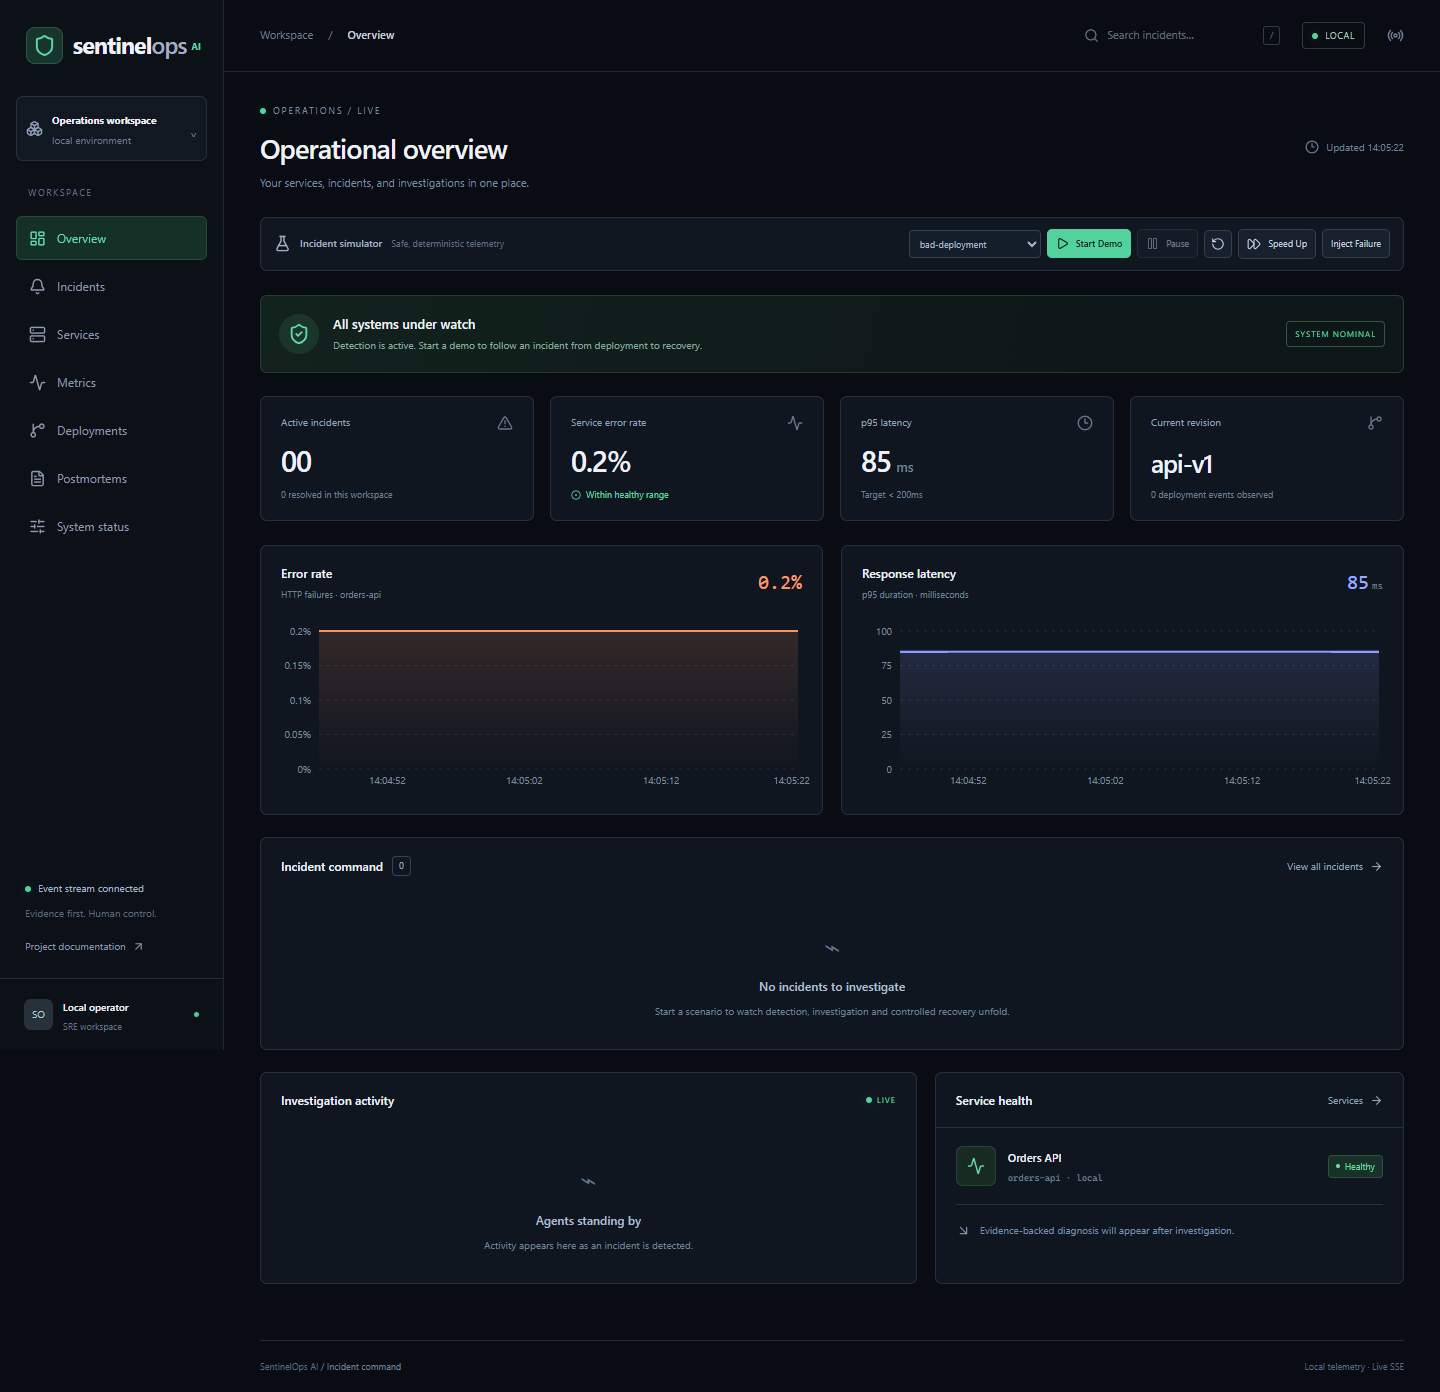
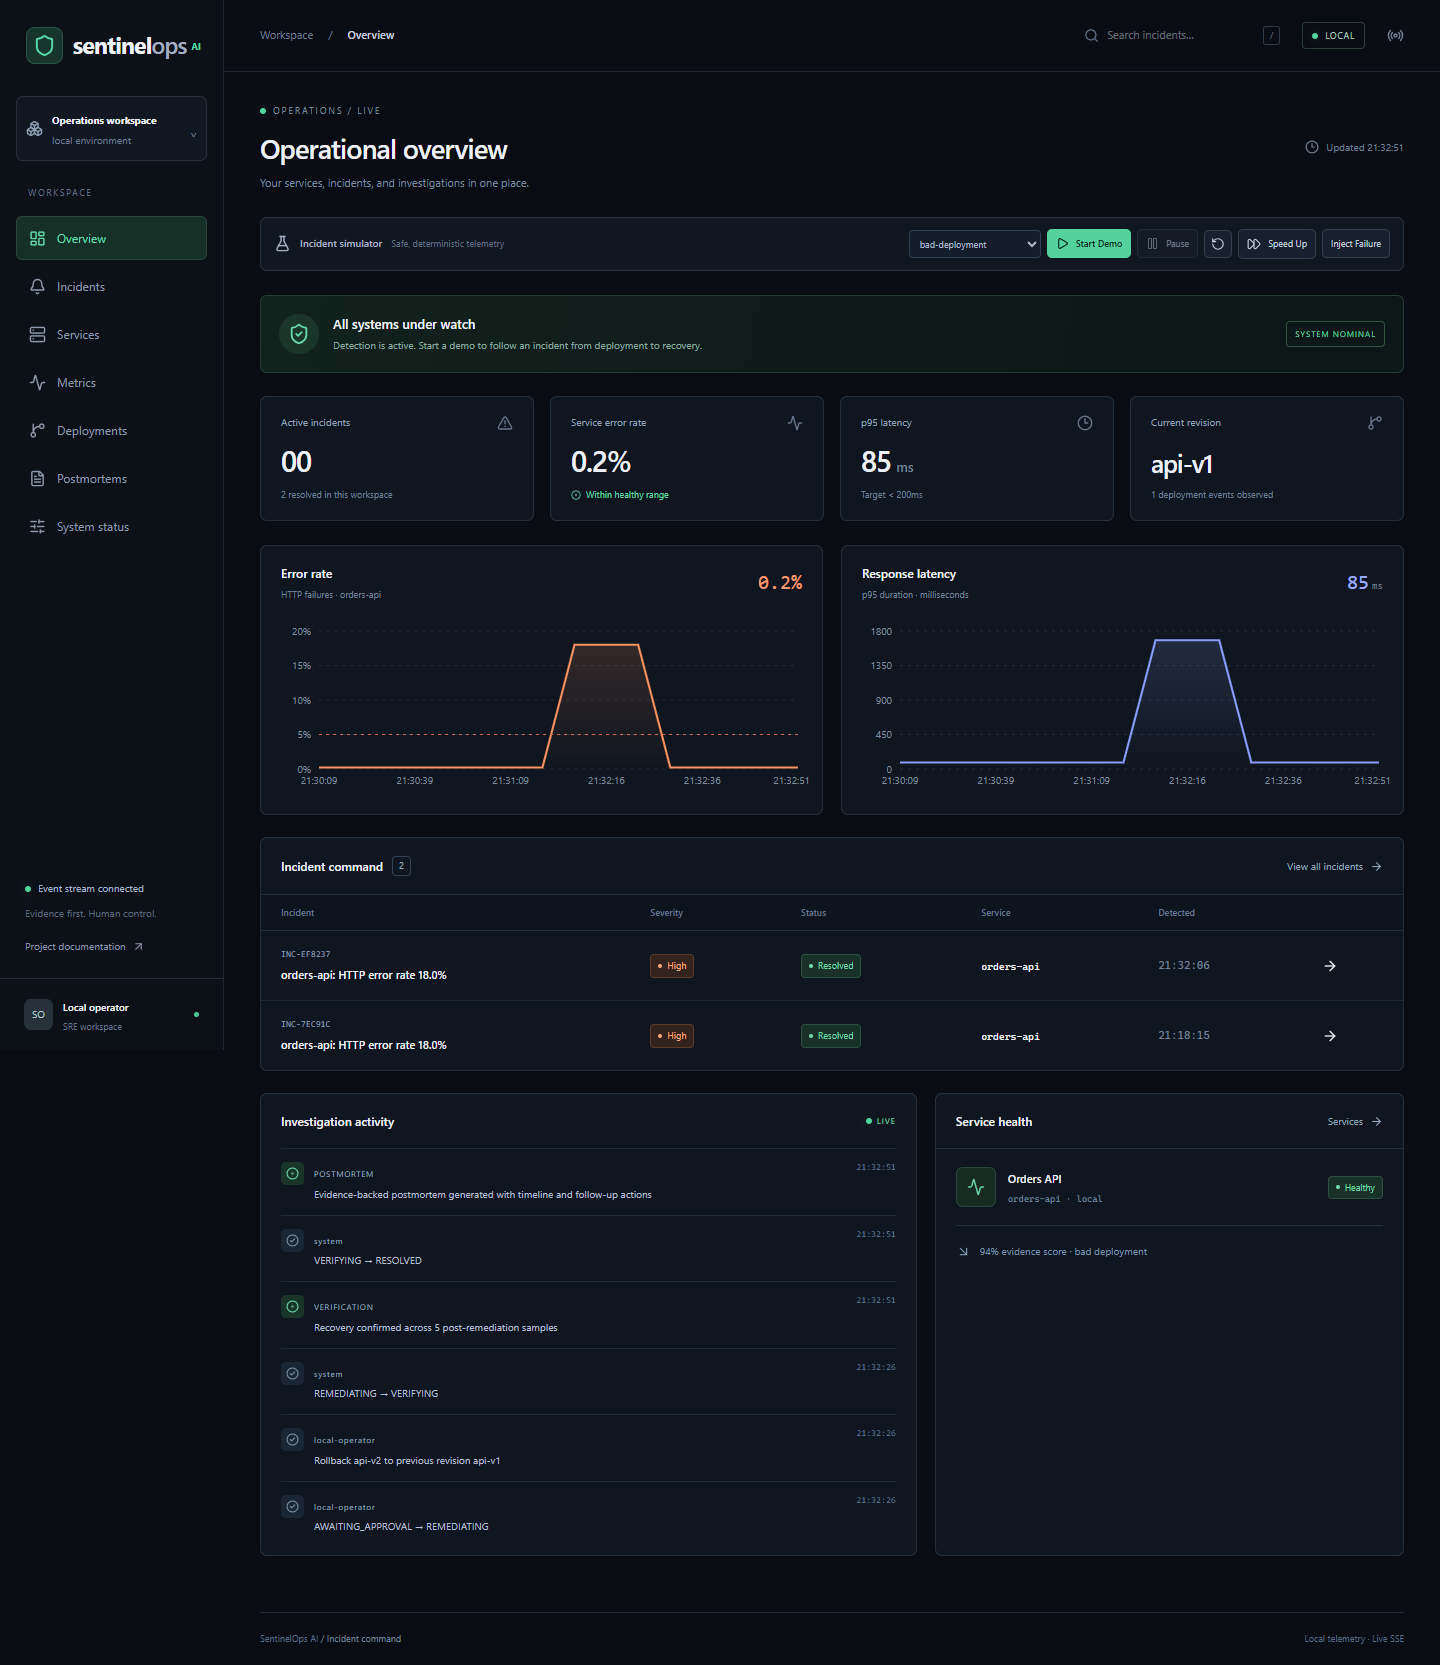
docs(verification): record clean local completion and fresh browser evidence

diff --git a/docs/verification/local-complete.md b/docs/verification/local-complete.md
@@ -1,0 +1,25 @@
+# Local completion verification
+
+Measured on 2026-10-05 against implementation commit `331f7861480f9dd9094ce7736d6354aa4c4d8bb8`. The completion commit adds this record and regenerated browser artifacts; it does not change runtime code. No real GCP deployment was attempted.
+
+| Check | Newly measured result |
+|---|---|
+| Backend | `uv run --extra gcp pytest -q`: **214 passed**, 20.36 seconds; one upstream AnyIO deprecation warning |
+| Backend lint/types | Ruff across `sentinelops tests scripts` passed; strict mypy passed for 53 source files |
+| Clean Python installation | Independent `.local/verification-clean-venv`, installed from `uv.lock` with the GCP extra: **214 passed**, 29.76 seconds |
+| Frontend installation/security | Fresh `npm ci`; `npm audit`: **0 vulnerabilities** |
+| Frontend code/build | ESLint, strict TypeScript, **6 tests** and Next.js production build passed |
+| Evaluation | Regenerated [report](../../evals/results/latest.json): **12/12** fixture scenarios; root-cause accuracy/evidence recall/tool selection/remediation correctness 1.0; false-cause/unsafe-action rates 0.0 |
+| Docker | Compose configuration, API/dashboard image builds and `up -d --wait` passed; API/demo healthy, dashboard responds; runtime API UID 10001, dashboard UID 1000 |
+| Browser | Full bad-deployment → approved rollback → five fresh samples → resolved postmortem; historical evidence, chronological timeline, audit and resource views checked; no page errors; no overflow at 390/768/1440; two real SSE proxy reconnections |
+| Terraform 1.13.5 | `fmt -check -recursive`, `init -backend=false -lockfile=readonly`, `validate` and **2 mocked plan tests** passed with Google provider 7.46.1 |
+| Hosted Linux CI | All four jobs passed on the implementation commit: [run 37342977867](https://github.com/sohaib-0897/SentinelOps-AI/actions/runs/37342977867), including fresh dependency installs, Docker and real browser QA |
+| Targeted security review | Tracked credential/env/state scan and execution/trust-boundary review completed; verified defects fixed with regressions; details in [security model](../security.md) |
+
+The browser incident was `e0bfb161-6d6d-4f02-b0de-85f3959ea55f`; recovery samples completed at `2026-10-05T16:47:22.218660Z`. Error rate recovered from 18% to 0.2%, p95 latency from 1680ms to 85ms. All eight verification checks passed. See [raw browser observations](local-e2e.json) and [screenshots](../screenshots/incident-postmortem.png).
+
+On this machine another application owns the default API port. SentinelOps was checked on API 18000, demo 18001 and dashboard 13000, using the documented Compose overrides. Existing unrelated processes, containers, images and volumes were preserved. The earlier internal missing-blob failure did not recur; no global cache cleanup was used. SentinelOps containers remain available for review and the incident volume is retained.
+
+The evaluation is synthetic and shares fixtures with deterministic regression rules. The local demo's HTTP failure/recovery is real, while investigation telemetry is deterministic. Mocked providers and valid Terraform do not demonstrate live cloud operation. ADK construction was checked without network calls and model behavior was mocked.
+
+Pending real integration checks include IAM/identity exchange, Cloud SQL PostgreSQL grants/migrations, Cloud Run target traffic rollback, Scheduler, Monitoring latency/alerts, Pub/Sub redelivery/dead letters, BigQuery views/MERGE/vector index and Vertex/ADK responses. The single-instance API scaling limit and minimum authorized cloud setup are documented in [architecture](../architecture.md) and [final GCP setup](../final-gcp-setup.md).

diff --git a/docs/DEVELOPMENT_LOG.md b/docs/DEVELOPMENT_LOG.md
@@ -75,3 +75,4 @@ Git commits are the authoritative milestone identifiers. Each entry is included 
 | 55-architecture-documentation | 2026-10-05 | This commit; parent `a189849` | Document implemented architecture, local commands, agent/security/evaluation contracts, cloud deployment and minimal final setup; separate local/mock/synthetic/live claims | Document links checked; credential/env/state scan clean; examples reviewed against scripts and settings | Cloud checklist remains unverified; local completion evidence follows final browser/clean-install runs |
 | 56-ingestion-only-identity | 2026-10-05 | This commit; parent `919f948` | Separate ingestion/operator secrets and API scopes; telemetry identity cannot approve/execute/read incidents or access the operator token | Full backend suite 213 passed; Ruff; mypy; Terraform validate and private/secret-scope mock plans passed | Real Secret Manager/IAM enforcement remains a cloud integration item |
 | 57-bounded-analytics-pull | 2026-10-05 | This commit; parent `9449f06` | Disable the SDK default pull retry window; report deadline-without-response separately without acknowledgements or empty-queue claims | 214 backend tests passed; Ruff; strict mypy; regenerated 12/12 evaluation; Terraform fmt/init/validate and 2 mocked plans | Live Pub/Sub timeout and delivery behavior remains a cloud integration check |
+| 58-local-completion | 2026-10-05 | This commit; parent `331f786` | Retain fresh verification evidence and screenshots; link the final measured local completion report from README | 214 backend tests in active and clean lock-file environment; Ruff/mypy; fresh npm ci/audit zero vulnerabilities/lint/typecheck/6 tests/build; 12/12 evaluation; Docker/Compose/browser; Terraform validate and 2 mock plans; Linux CI green | Real GCP resources, IAM, SQL/BigQuery, scheduling and Vertex/ADK calls remain unverified; no provisioning performed |

diff --git a/README.md b/README.md
@@ -11,7 +11,7 @@ The FastAPI control plane uses Python 3.12, Pydantic v2, SQLAlchemy/Alembic and 
 | Synthetic evaluation | Twelve fixture scenarios; evidence rules and expected outcomes share the regression fixtures. This is not a held-out operational benchmark. |
 | Real GCP | Not yet deployed or verified. IAM enforcement, live SQL/BigQuery, model access, scheduling and cloud recovery remain pending. |
 
-Current evidence is retained in [local verification](docs/verification/local-e2e.json), [evaluation](evals/results/latest.json), [development log](docs/DEVELOPMENT_LOG.md) and GitHub Actions. A mock test or Terraform validation does not establish a working cloud deployment.
+Current evidence is retained in the [local completion report](docs/verification/local-complete.md), [browser observations](docs/verification/local-e2e.json), [evaluation](evals/results/latest.json), [development log](docs/DEVELOPMENT_LOG.md) and GitHub Actions. A mock test or Terraform validation does not establish a working cloud deployment.
 
 Install Python 3.12, Node.js 22 and uv. From this checkout:
 
